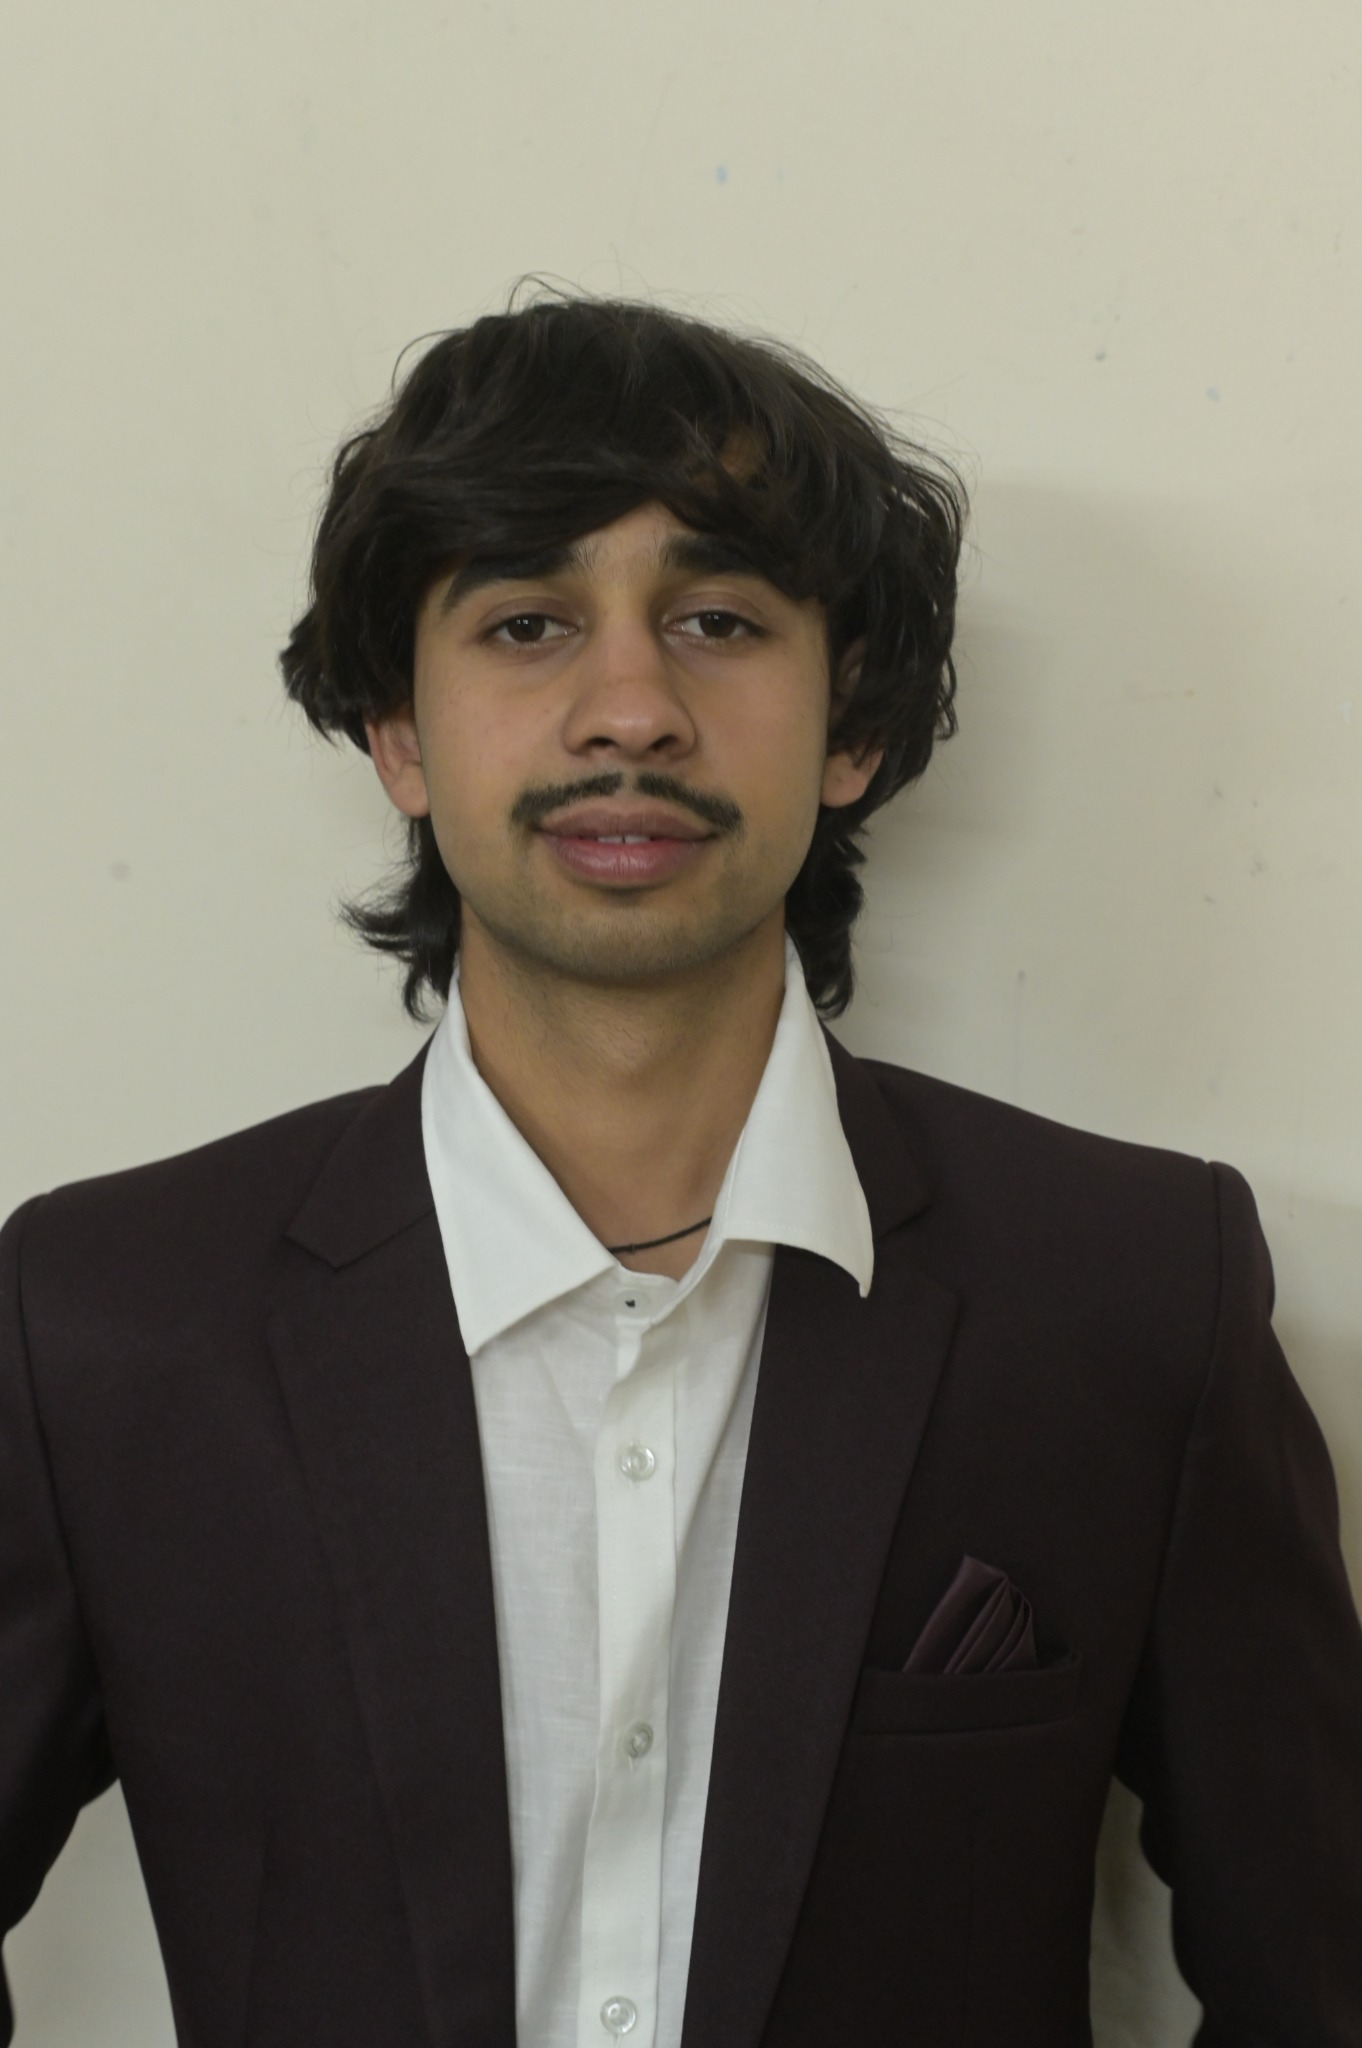
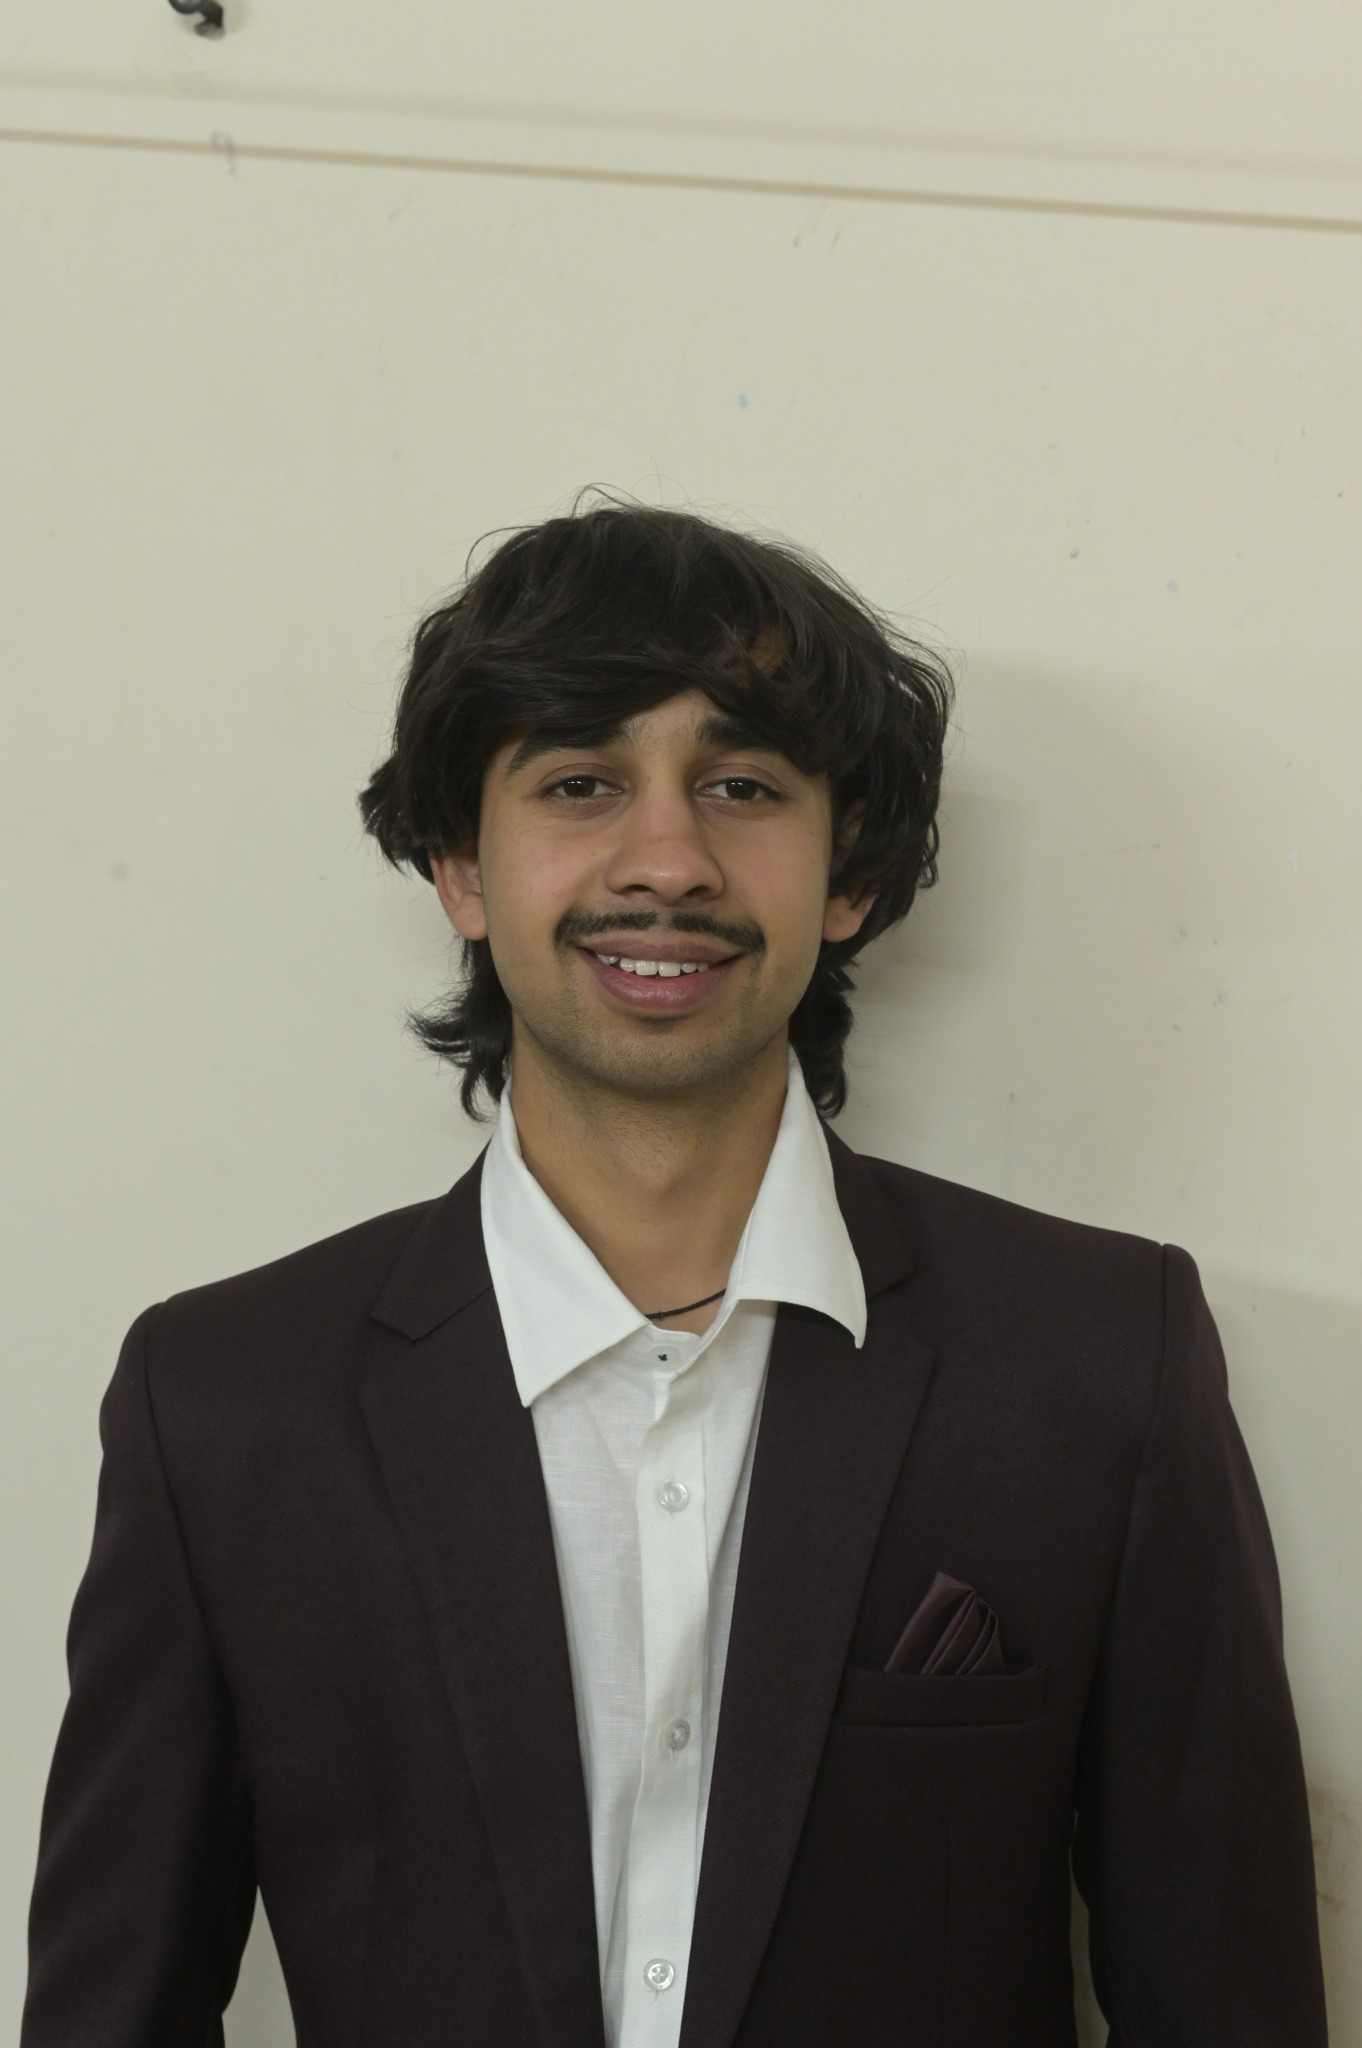
Add files via upload

diff --git a/index.html b/index.html
@@ -64,17 +64,16 @@ footer{padding:25px;text-align:center;color:var(--muted);font-size:14px}
 
 <section id="experience"><div class="wrap">
 <h2 class="section-title">Experience</h2><p class="section-sub">Learning experiences, programs and professional development.</p>
-<div class="exp"><div class="date">IBM</div><div><h3>IBM SkillsBuild / Professional Learning Experience</h3><p>Completed industry-focused learning and skill development activities, strengthening practical understanding of technology and professional skills.</p></div></div>
-<div class="exp"><div class="date">Google Gemini</div><div><h3>Gemini & AI Learning Experience</h3><p>Explored generative AI concepts and practical applications, including responsible use of AI tools and intelligent workflows.</p></div></div>
-<div class="exp"><div class="date">Oracle</div><div><h3>Oracle AI Foundations & Agentic AI</h3><p>Completed Oracle learning focused on AI foundations and agentic AI concepts.</p></div></div>
+<div class="exp"><div class="date">6 WEEKS · IBM</div><div><h3>IBM SkillsBuild Internship</h3><p>Completed a 6-week internship focused on industry-oriented learning, practical technology skills and professional development.</p></div></div>
+<div class="exp"><div class="date">6 MONTHS · GOOGLE GEMINI</div><div><h3>Google Gemini Campus Experience</h3><p>Engaged in a 6-month experience focused on generative AI, practical AI applications, campus engagement and emerging technologies.</p></div></div>
+<div class="exp"><div class="date">3 MONTHS · SUCCESSCV</div><div><h3>SuccessCV Internship</h3><p>Completed a 3-month internship experience contributing to a CV and career-focused platform while developing practical project and professional skills.</p></div></div>
 </div></section>
 
 <section id="projects"><div class="wrap">
 <h2 class="section-title">Projects</h2><p class="section-sub">A selection of technical and academic work.</p>
 <div class="grid">
-<div class="card"><span class="pill">Java Project</span><h3>Java Application</h3><p>A Java-based project demonstrating object-oriented programming, application logic and problem-solving skills.</p></div>
-<div class="card"><span class="pill">AI Project</span><h3>AI Healthcare</h3><p>An intelligent healthcare-focused project exploring the use of AI for practical problem solving.</p></div>
-<div class="card"><span class="pill">Data Project</span><h3>Data Analyst</h3><p>A data-focused project involving analysis, structured information and meaningful insights.</p></div>
+<div class="card"><span class="pill">AI PROJECT</span><h3>Echo AI</h3><p>An innovative, intelligent, and interactive AI-powered voice assistant designed to understand natural language, deliver quick and accurate responses, and support useful everyday tasks through a smooth and user-friendly experience.</p></div>
+<div class="card"><span class="pill">WEB PROJECT</span><h3>Website Disaster Management System</h3><p>A responsive, informative, and user-friendly web-based disaster management system designed to provide essential information, promote emergency awareness, and help users access important resources and support during critical situations.</p></div>
 </div></div></section>
 
 <section id="certificates"><div class="wrap">
